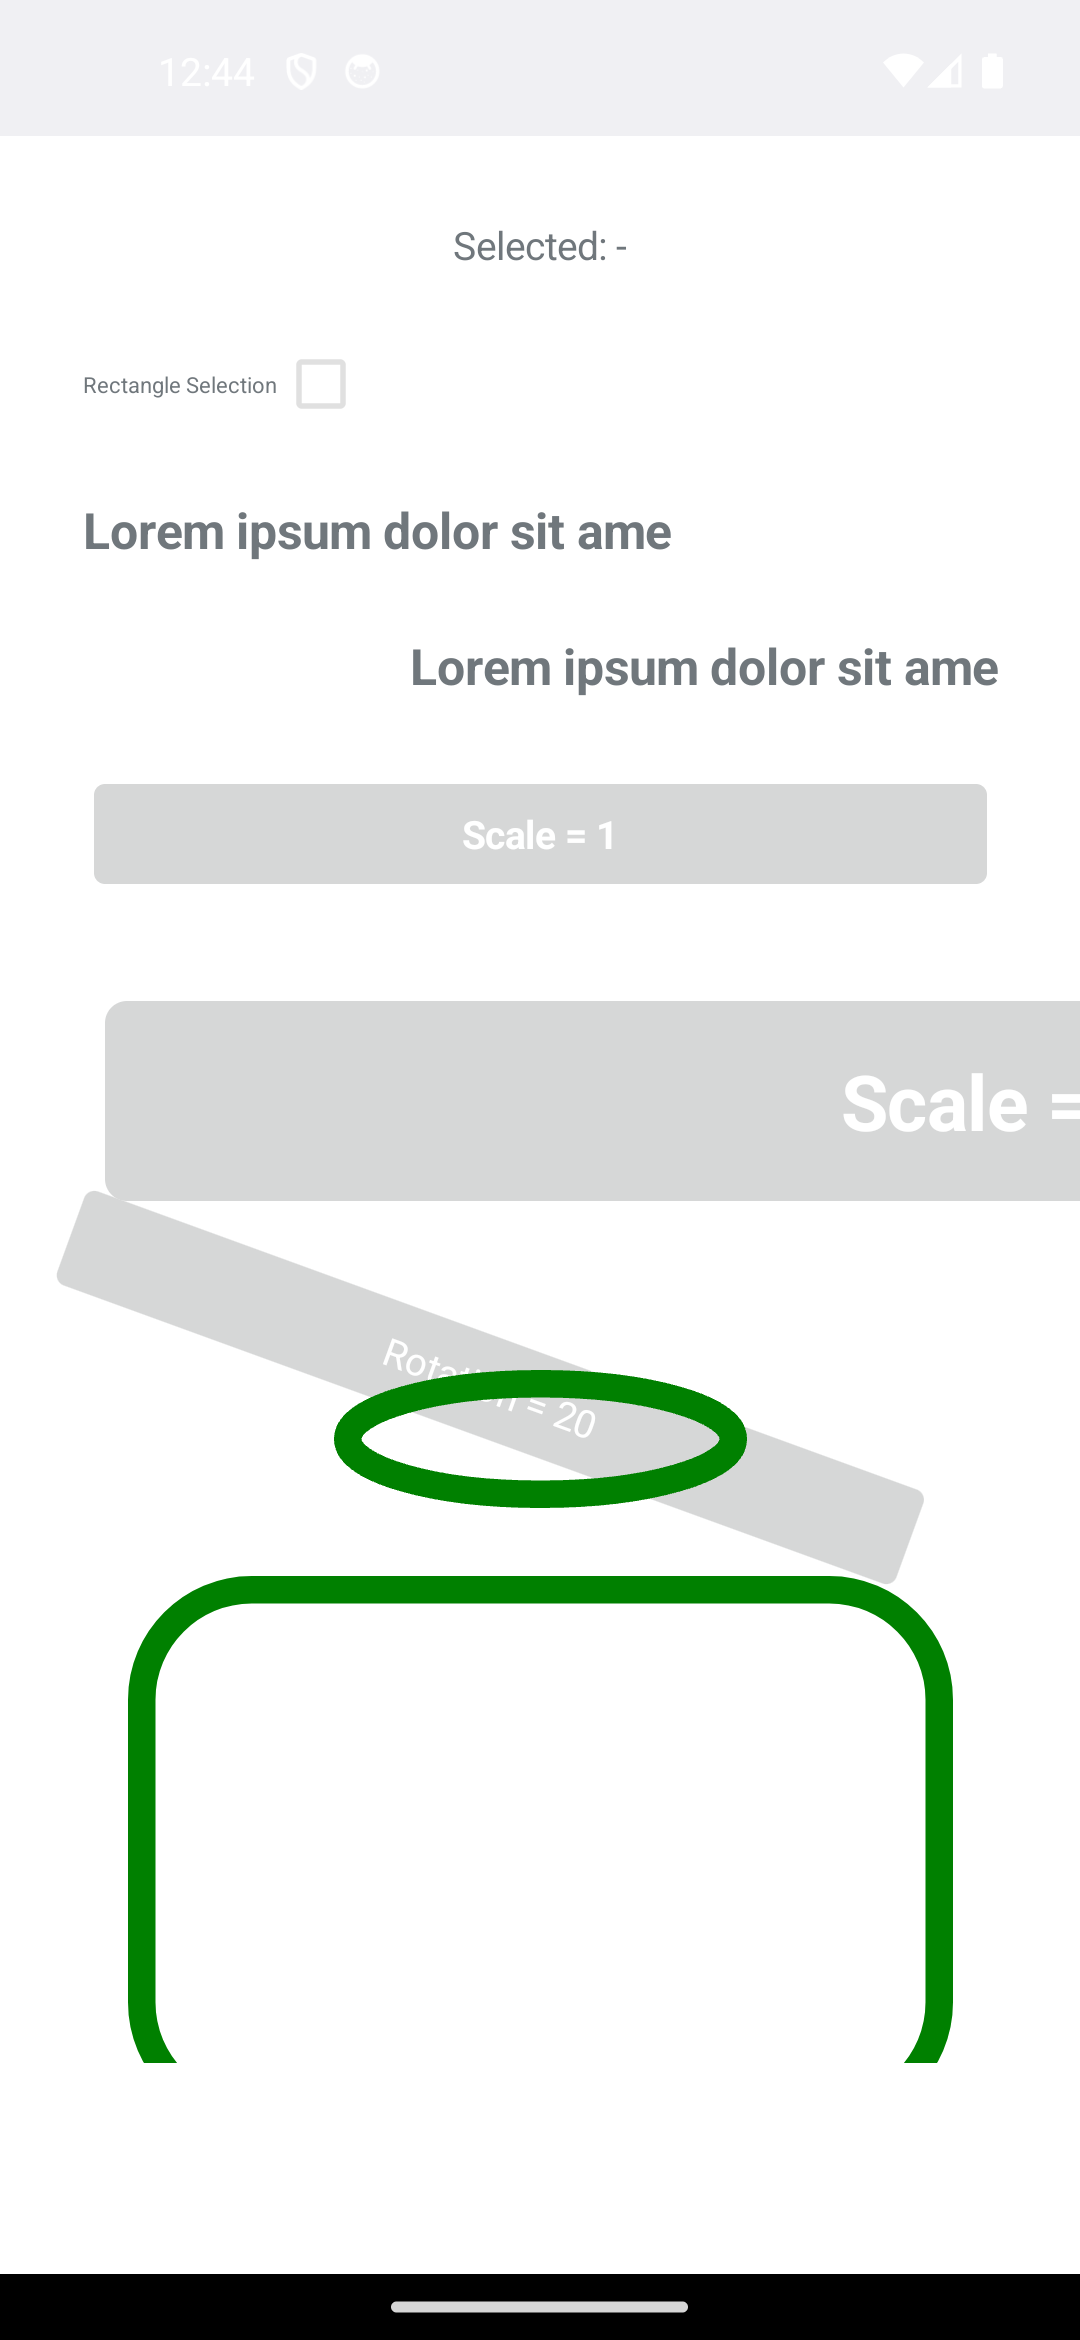
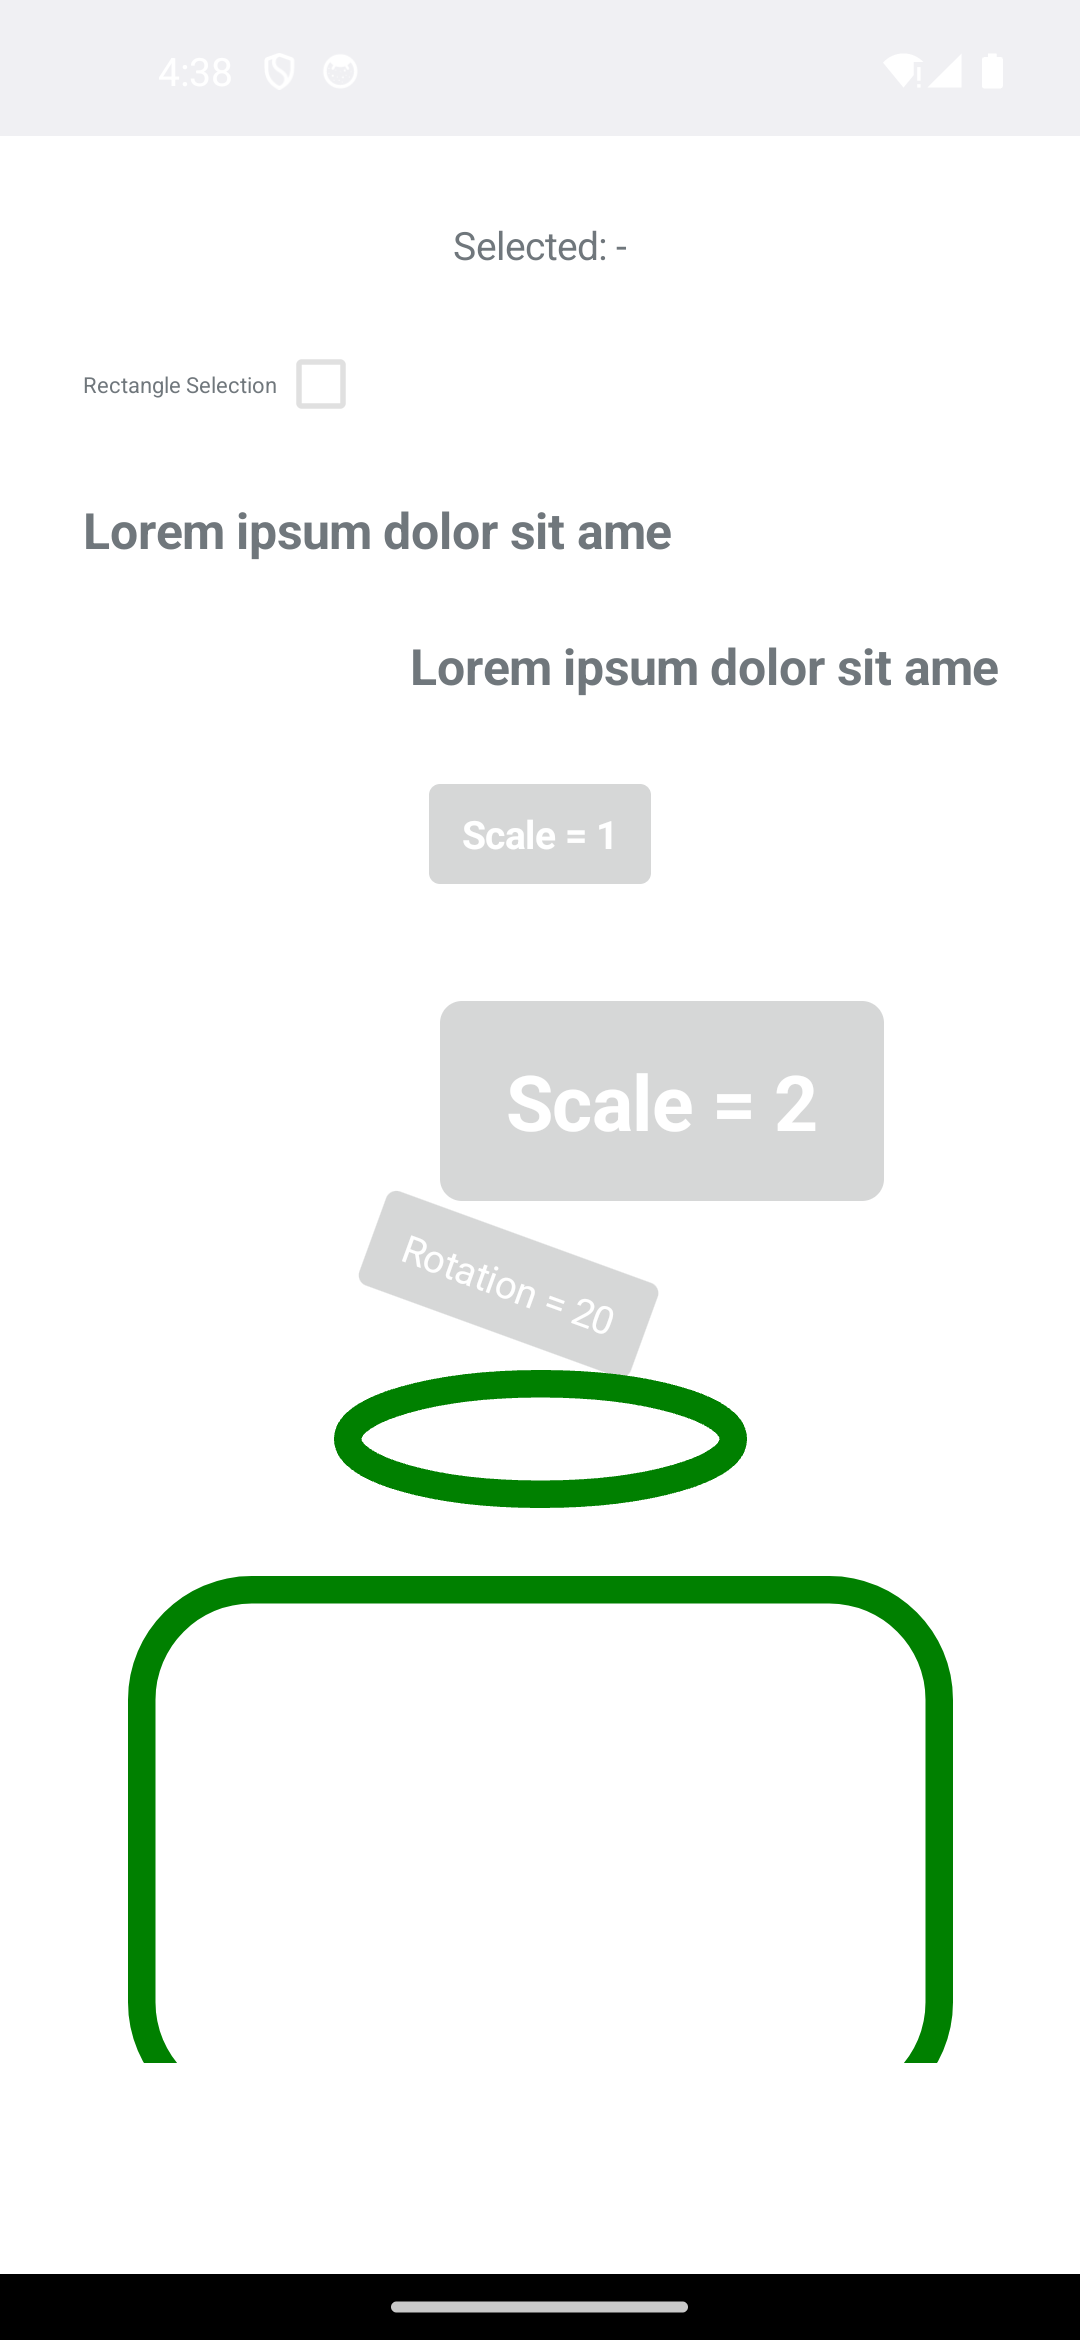
fix(hit_testing): add missing HorizontalOptions=Center on buttons; green android (155)
The cpp builder omitted the shared XAML's HorizontalOptions="Center" on the three
Scale/Rotation buttons. iOS/macCatalyst native buttons content-size regardless (already
green), but the android native button fills full-width without it, so android rendered
the buttons full-width and the Scale=2 (2x) button overflowed the right edge -> yellow.
Added set_horizontal_layout_alignment(center) to all three -> android buttons now
content-width-centered, matching MAUI. maccatalyst recaptured (no regression, buttons were
already content-width text). android 154->155 (first-since-WS-E android green).

Changed region(s): [[0.0611, 0.312, 0.8556, 0.6863], [0.5806, 0.312, 1.0, 0.5303], [0.6722, 0.4679, 0.7028, 0.4991]]

diff --git a/port/cpp/examples/gallery/pages/hit_testing_page.hpp b/port/cpp/examples/gallery/pages/hit_testing_page.hpp
@@ -108,16 +108,22 @@ namespace maui::samples
 
             // Three buttons: Scale=1, Scale=2 (overlaps its neighbors when scaled), Rotation=20.
             // XAML: the Scale buttons carry FontAttributes="Bold" (Rotation=20 does not).
+            // XAML: all three buttons carry HorizontalOptions="Center" (content-width, centered). iOS/macCatalyst
+            // native buttons content-size regardless, but the android native button fills full-width without it.
+            const auto center = maui::core::layout_alignment::center;
             scale1_btn_.set_text("Scale = 1");
             scale1_btn_.set_scale(1);
+            scale1_btn_.set_horizontal_layout_alignment(center);
             scale1_btn_.set_font(
                 maui::core::font::system_font_of_size(scale1_btn_.font().size(), maui::core::font_weight::bold));
             scale2_btn_.set_text("Scale = 2");
             scale2_btn_.set_scale(2); // doubled — its bounds overlap the rows above/below
+            scale2_btn_.set_horizontal_layout_alignment(center);
             scale2_btn_.set_font(
                 maui::core::font::system_font_of_size(scale2_btn_.font().size(), maui::core::font_weight::bold));
             rotate_btn_.set_text("Rotation = 20");
             rotate_btn_.set_rotation(20);
+            rotate_btn_.set_horizontal_layout_alignment(center);
 
             // An ellipse + a rounded (unfilled) Rectangle (the RoundRectangle stand-in) + an image.
             oval_.set_stroke(std::make_shared<maui::graphics::solid_paint>(maui::graphics::colors::green));

diff --git a/port/cpp/docs/comparison/README.md b/port/cpp/docs/comparison/README.md
@@ -7363,8 +7363,8 @@ Real .NET MAUI vs the C++ port vs the compile-time-XAML gallery, captured on the
 
 | Classification | Sonnet 5 | Gemini |
 | --- | --- | --- |
-| 🟢 Match | 154 | 0 |
-| 🟡 Minor | 16 | 0 |
+| 🟢 Match | 155 | 0 |
+| 🟡 Minor | 15 | 0 |
 | 🔴 Major | 2 | 0 |
 | ⬛ Blank | 0 | 0 |
 | ⏳ Unreviewed | 23 | 195 |
@@ -9117,16 +9117,16 @@ _Not yet reviewed._
 
 _Not yet computed — no automated pixel-diff score is recorded for this page yet._
 
-### 95. Hit Testing — 🟡/⏳
+### 95. Hit Testing — 🟢/⏳
 <sub>hit_testing</sub>
 
 <table><tr><th></th><th>MAUI</th><th>C++</th><th>C++ &amp; XAML</th></tr><tr><th>Light</th><td><img width="300px" src="../../../maui-reference/captures/android/hit_testing_light.png" /></td><td><img width="300px" src="captures/android/cpp/hit_testing_light.png" /></td><td><img width="300px" src="captures/android/xaml/hit_testing_light.png" /></td></tr><tr><th>Dark</th><td><img width="300px" src="_placeholder.png" /></td><td><img width="300px" src="_placeholder.png" /></td><td><img width="300px" src="_placeholder.png" /></td></tr></table>
 
 ports HitTestingPage.xaml (+ .xaml.cs) (Maui.Controls.Sample.Pages.HitTestingPage)
 
-#### 🟡 Sonnet 5 Review
+#### 🟢 Sonnet 5 Review
 
-Android: structure + text + shapes + transforms match the fresh MAUI ref (Selected/Rectangle checkbox, Start/End Lorem labels, Scale/Rotation buttons, green Ellipse + rounded Rectangle). REAL Android delta: the three buttons have HorizontalOptions=Center but cpp renders them FULL-WIDTH instead of content-width-centered (MAUI content-sizes them), so the Scale=2 (2x transform) button overflows the right edge. Android StackLayout/button cross-axis alignment doesn't content-size a Center button. Isolated Android layout bug for a targeted fix (not iOS/maccatalyst).
+Matches the fresh MAUI ref. The three Scale/Rotation buttons now render CONTENT-WIDTH + centered (was full-width) — the cpp builder was missing the shared XAML's HorizontalOptions="Center" on the buttons; iOS/macCatalyst native buttons content-size regardless (already green), but the android native button fills full-width without it. Added it -&gt; Scale=1/Scale=2(2x)/Rotation=20(rotated) buttons match MAUI's sizing, the Scale=2 button no longer overflows the right edge. Checkbox, Start/End labels, green ellipse + rounded rectangle all align.
 
 #### ⏳ Gemini Review
 
